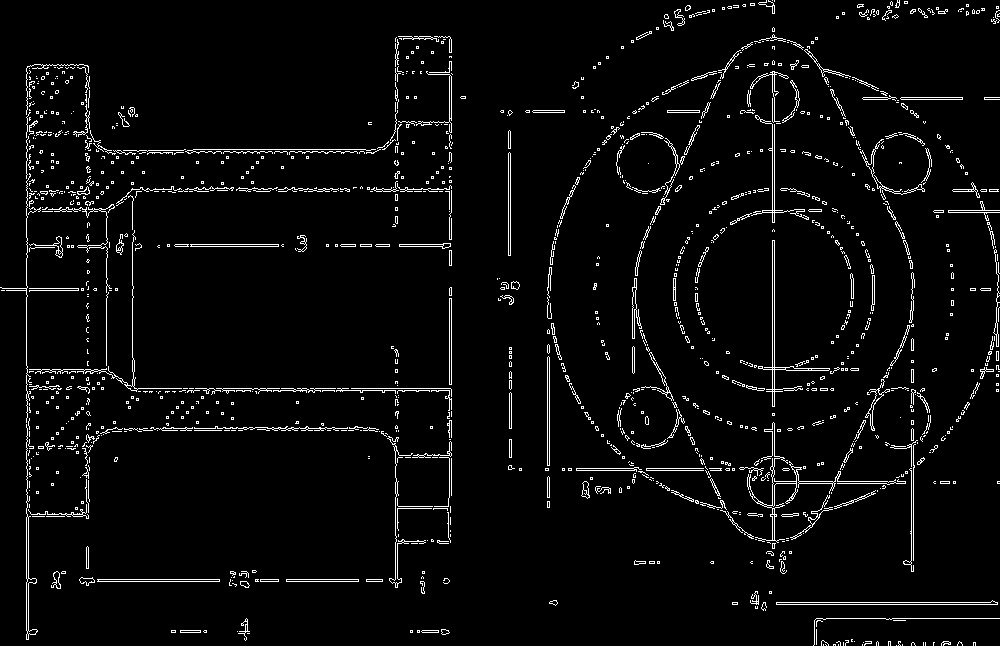
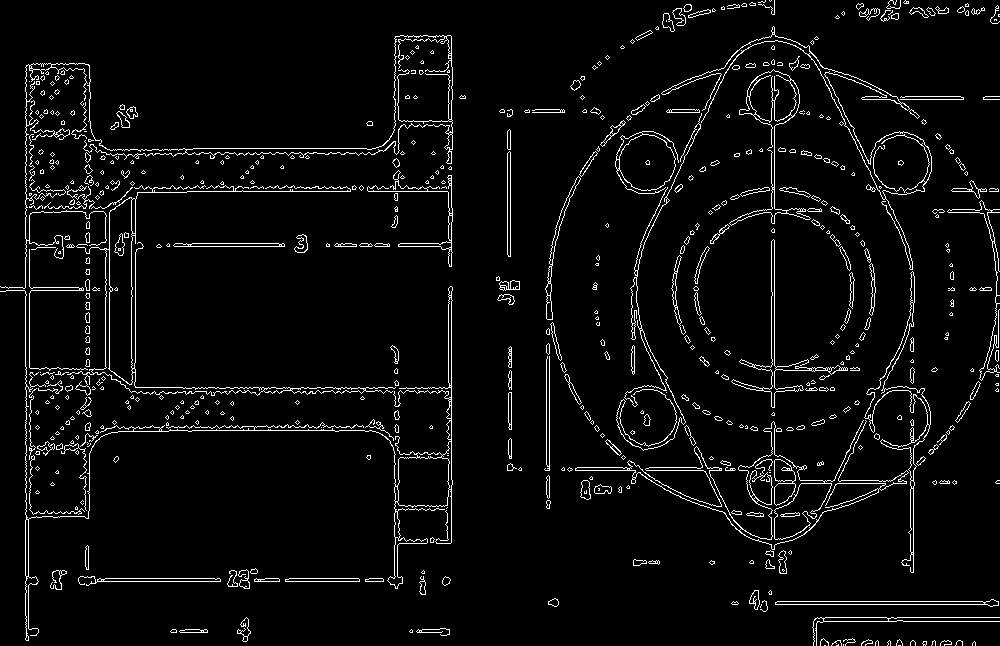
Added dilation and erosion functions to edge_detector.py

diff --git a/edge_detector.py b/edge_detector.py
@@ -2,6 +2,7 @@ import cv2
 
 # Edge detection parameters
 DILATION_KERNEL_SIZE = 2
+EROSION_KERNEL_SIZE = 3
 METHOD = "canny"
 # Only for canny
 LOW_THRESHOLD = 10
@@ -21,6 +22,13 @@ class EdgeDetector:
 
         kernel = cv2.getStructuringElement(cv2.MORPH_RECT, (kernel_size, kernel_size))
         self.image = cv2.dilate(self.image, kernel, iterations=1)
+
+    def erode_image(self, kernel_size=EROSION_KERNEL_SIZE):
+        if self.image is None:
+            raise ValueError("Image not provided.")
+
+        kernel = cv2.getStructuringElement(cv2.MORPH_RECT, (kernel_size, kernel_size))
+        self.image = cv2.erode(self.image, kernel, iterations=1)
 
     def detect_edges(self, method=METHOD, low_threshold=LOW_THRESHOLD, high_threshold=HIGH_THRESHOLD, ksize=KSIZE):
         if self.image is None:
@@ -51,6 +59,7 @@ if __name__ == "__main__":
     # Create an instance of the EdgeDetector class and detect edges
     edge_detector = EdgeDetector(preprocessed_image)
     edge_detector.dilate_image()
+    edge_detector.erode_image()
     detected_edges = edge_detector.detect_edges()
 
     # Save the detected edges for debugging purposes

diff --git a/README.md b/README.md
@@ -14,11 +14,11 @@ Python 3.x
 OpenCV
 NumPy
 Other libraries (TBD)
-## Installation
+### Installation
 Clone the repository or download the source files.
 Create and activate a Python virtual environment (recommended).
 Install the required packages using pip or conda.
-## Usage
+### Usage
 Run the main.py script to execute the entire pipeline, from loading the input image to exporting the final DXF file.
 Contributing
 Please feel free to submit pull requests or report issues to improve the project. Any feedback and suggestions are appreciated.
